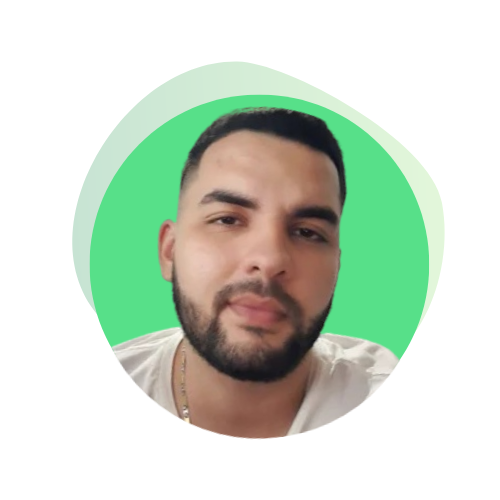
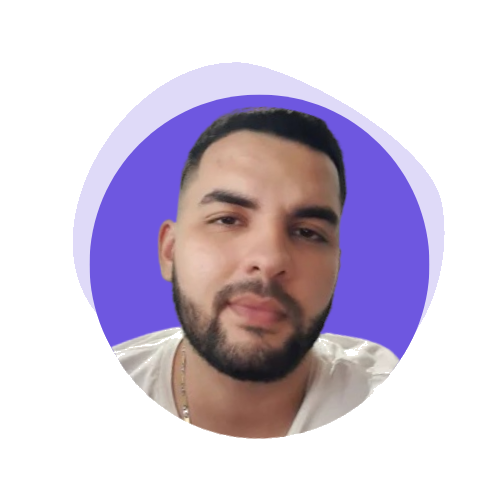
adding dark/light theme

Changed region(s): [[0.12, 0.12, 0.9, 0.72]]

diff --git a/src/public/js/main.js b/src/public/js/main.js
@@ -69,6 +69,39 @@ skillHeader.forEach((el) => {
 });
 
 
+
+//======= Dark ligth theme ============
+const themeButton = document.getElementById('theme-button')
+const darkTheme = 'dark-theme'
+const iconTheme = 'fa-sun'
+
+// Previously selected topic (if user selected)
+const selectedTheme = localStorage.getItem('selected-theme')
+const selectedIcon = localStorage.getItem('selected-icon')
+
+// We obtain the current theme that the interface has by validating the dark-theme class
+const getCurrentTheme = () => document.body.classList.contains(darkTheme) ? 'dark' : 'light'
+const getCurrentIcon = () => themeButton.classList.contains(iconTheme) ? 'fa-moon' : 'fa-sun'
+
+// We validate if the user previously chose a topic
+if (selectedTheme) {
+  // If the validation is fulfilled, we ask what the issue was to know if we activated or deactivated the dark
+  document.body.classList[selectedTheme === 'dark' ? 'add' : 'remove'](darkTheme)
+  themeButton.classList[selectedIcon === 'fa-moon' ? 'add' : 'remove'](iconTheme)
+}
+
+// Activate / deactivate the theme manually with the button
+themeButton.addEventListener('click', () => {
+    // Add or remove the dark / icon theme
+    document.body.classList.toggle(darkTheme)
+    themeButton.classList.toggle(iconTheme)
+    // We save the theme and the current icon that the user chose
+    localStorage.setItem('selected-theme', getCurrentTheme())
+    localStorage.setItem('selected-icon', getCurrentIcon())
+})
+
+
+
 //======= Portfolio ============
 // let swiper = new Swiper('.portfolio_container', {
 //     cssMode: true,

diff --git a/src/public/css/style.css b/src/public/css/style.css
@@ -4,7 +4,7 @@
 
     --header-height: 3rem;
 
-    --hue-color: 142; 
+    --hue-color: 250; 
 
     --first-color: hsl(var(--hue-color), 69%, 61%);
     --first-color-second: hsl(var(--hue-color), 69%, 61%);
@@ -58,6 +58,33 @@
         --small-font-size: .875rem;
         --smaller-font-size: .813rem;
     }
+}
+
+/* ============= Dark theme variables ============= */
+body.dark-theme {
+    --first-color-second: hsl(var(--hue-color), 30%, 8%);
+    --title-color: hsl(var(--hue-color), 8%, 96%);
+    --text-color: hsl(var(--hue-color), 8%, 75%);
+    --input-color: hsl(var(--hue-color), 29%, 16%);
+    --body-color: hsl(var(--hue-color), 28%, 12%);
+    --container-color: hsl(var(--hue-color), 29%, 16%);
+}
+
+/* ============= Dark/Light ============= */
+.nav_btns {
+    display: flex;
+    align-items: center;
+}
+
+.change-theme {
+    font-size: 1.25rem;
+    color: var(--title-color);
+    margin-right: var(--mb-1);
+    cursor: pointer;
+}
+
+.change-theme:hover {
+    color: var(--first-color);
 }
 
 * {

diff --git a/src/public/css/slider.css b/src/public/css/slider.css
@@ -117,7 +117,7 @@
     width: 300px;
     flex-shrink: 0;
     height: 300px;
-    background: hsl(142, 69%, 61%);
+    background: hsl(255, 69%, 61%);
     box-shadow: 4px 13px 30px 1px rgba(138, 217, 129, 0.3);
     border-radius: 20px;
     transform: translateX(-80px);
@@ -210,7 +210,7 @@
 
 .blog-slider__button {
     display: inline-flex;
-    background: hsl(142, 69%, 61%);
+    background: hsl(255, 69%, 61%);
     padding: 15px 35px;
     border-radius: 50px;
     color: #fff;
@@ -283,9 +283,9 @@
 
 .blog-slider__pagination .swiper-pagination-bullet-active {
     opacity: 1;
-    background: hsl(142, 69%, 61%);
+    background: hsl(250, 69%, 61%);
     height: 30px;
-    box-shadow: 0px 0px 20px rgba(138, 217, 129, 0.3);
+    box-shadow: 0px 0px 20px rgba(240, 217, 129, 0.3);
 }
 
 @media screen and (max-width: 768px) {

diff --git a/src/views/index.html b/src/views/index.html
@@ -63,6 +63,9 @@
             </div>
 
             <div class="nav_btns">
+
+                <i class="fa-regular fa-moon change-theme" id="theme-button"></i>
+
                 <div class="nav_toggle" id="nav-toggle">
                     <i class="fa-solid fa-align-center"></i>
                 </div>
